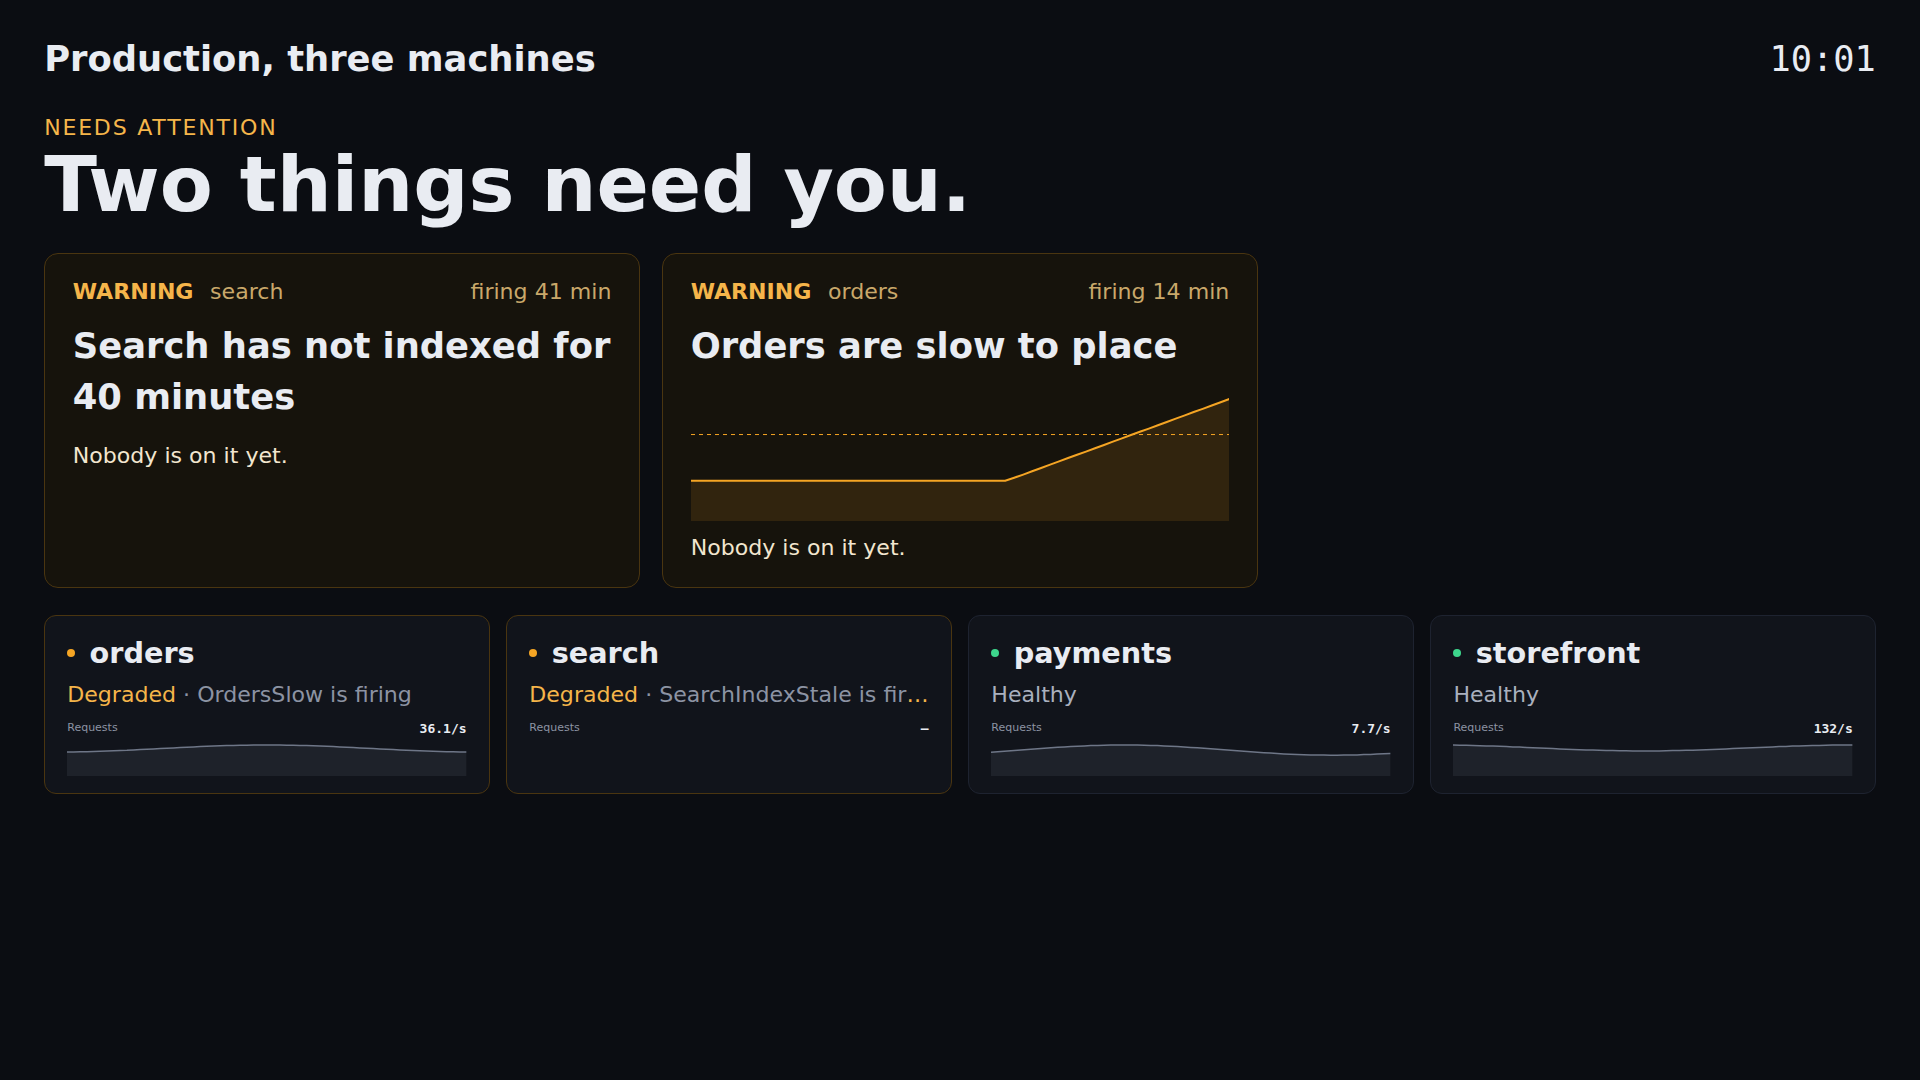
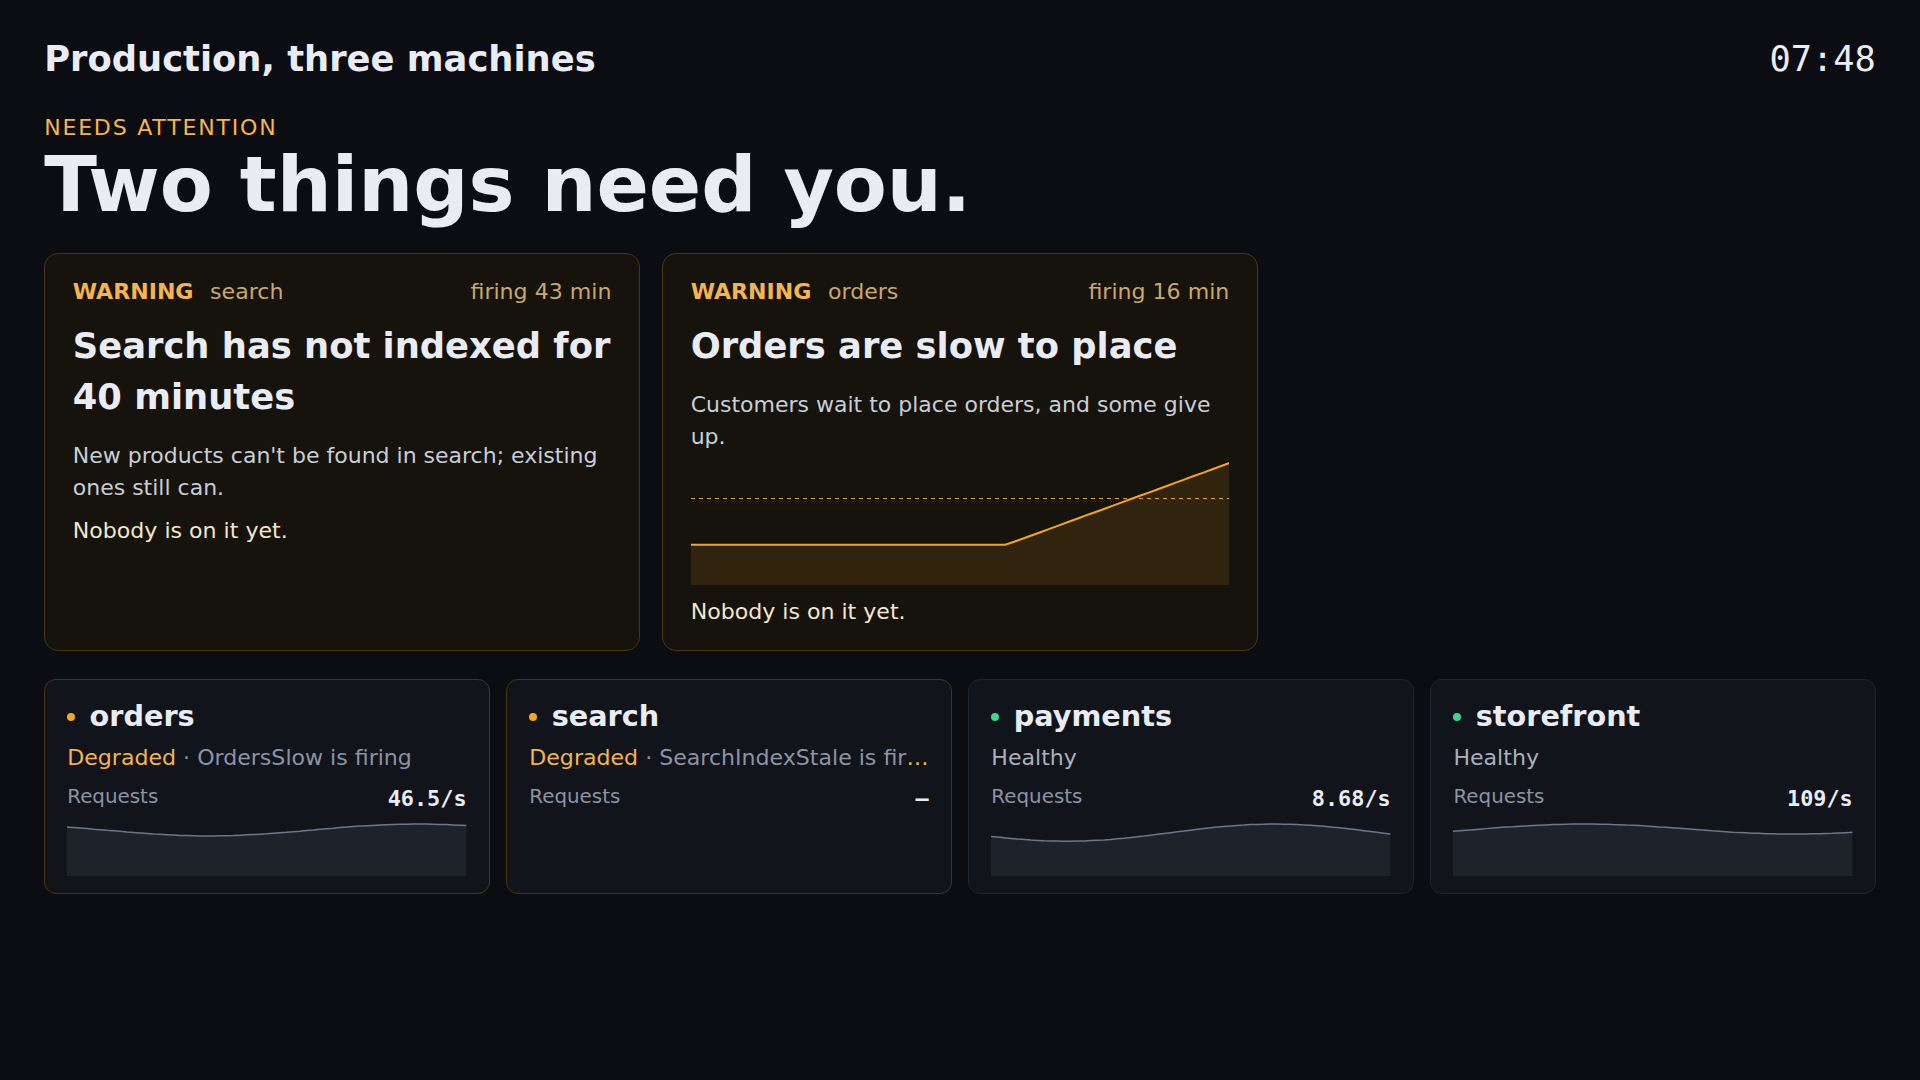
README: the page as it is now
Fresh screenshots of the overview, a service, an alert's own page, the
kiosk and the EKS and Datadog estates, against the e2e tools; and the
page's newer abilities: log filters, chart ranges, reading and zooming
every chart at once, agents' runs and budgets, jobs and stores.

Claude-Session: https://claude.ai/code/session_01PiXEMhRYrb7um64anGo5Gk

diff --git a/README.md b/README.md
@@ -20,7 +20,7 @@ investigating it are in Slack.
 **Estate puts that context together on one live page for each service, then takes you to the system that has the
 detail.**
 
-![The overview: what needs you now, each service's lane, and what changed today](docs/overview.png)
+![The overview: what needs you now, the estate's map, each service, store, job and agent in its area, and what changed today](docs/overview.png)
 
 ## Why does Estate exist?
 
@@ -96,7 +96,9 @@ Grafana's alerting, Argo CD and Elasticsearch, or an environment read wholly fro
 - see whether an alert has fired before, for how long, and what was written about it then
 - silence an alert for a while, with a reason everyone can see
 - turn on debug logging for a service for 15 minutes; it switches itself back off
-- watch a service's logs live, or see its errors grouped by message
+- watch a service's logs live, filter them by level or text and pause them, or see its errors grouped by message
+- read a service's load and stats over the last hour, six hours, day or week; point at a chart to read the same
+  moment on every chart, and drag across one to zoom them all
 - compare what's deployed in each environment
 - open an alert's own page to share: what's happening, what is around it, who owns it
 - ask AI about an alert, when a model is set in `estate.yaml`
@@ -106,10 +108,12 @@ Grafana's alerting, Argo CD and Elasticsearch, or an environment read wholly fro
 - see a service's version in every environment at once, and switch to one
 - see what each service, job and agent costs this month against its budget; an anomaly or a budget it will pass
   needs someone, and an agent's spend between its provider's reports is estimated from its tokens, and says so
+- follow an AI agent's runs, failures and tokens against its daily budget, and open its recent runs
+- see when a job last ran and when it runs next, and a store's stats over a day
 
 Viewers see everything and add notes. Operators can also silence, switch debug, and write what an alert means.
 
-![A service page: load, logs, pods, jobs, alerts today, debug and builds](docs/service.png)
+![A service page: its version in each environment, links and owners, load and stats, live logs, pods, debug, what changed and alerts today](docs/service.png)
 
 Services, stores and jobs can be grouped by **category**, such as Payments or Data, so a page of forty services
 reads as five areas. The map at the top draws a node per category once there are more than a dozen, and opens one
@@ -117,6 +121,8 @@ in place when you click it. Anything that needs someone is always drawn on its o
 lanes or, when the estate is long to scroll, as a grid of compact cards; the choice is kept in this browser.
 
 ### Around this alert, and Ask AI
+
+![An alert's own page: what's happening, what is around it, who owns it, and Ask AI](docs/alert.png)
 
 An alert's own page gathers what is around it, with no AI needed: the deploys and builds of its service and of what
 it calls or what calls it, from the hour before it fired; how those neighbours are, with their stats; its errors from
